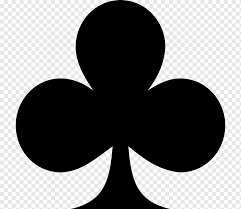
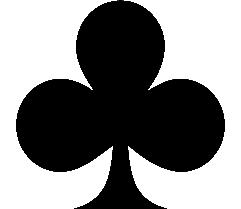
Dodany styl (poker), usunięcie tła z obrazków

Changed region(s): [[0.5228, 0.0, 1.0, 1.0], [0.0, 0.0, 0.4938, 1.0]]

diff --git a/src/poker.html b/src/poker.html
@@ -2,44 +2,45 @@
 <html lang="pl">
 <head>
     <meta charset="UTF-8">
-    <link rel="stylesheet" href="style.css">
+    <link rel="stylesheet" href="poker.css">
     <meta name="viewport" content="width=device-width">
+    <script src="https://kit.fontawesome.com/f741e76120.js" crossorigin="anonymous"></script>
     <title>Poker</title>
 </head>
 <body>
-    <div class="gra">
-        <div class="tekst">Poker</div>
-        <input type="submit" value="Zasady">            
-    </div>
-    <div class="strona">
+    <header>
+        POKER
+        <button><span class="fa-solid fa-question"></span></button>         
+    </header>
+    <div class="page">
         <div class="plansza">
-            <div class ="Armia_Szymona">
-                <div class="gracz" id="gracz1"> 
-                    <img src="ikona.png" class="ikona">
+            <div class ="rzad">
+                <div class="gracz" id="gracz3"> 
+                    <span class="fa-solid fa-circle-user" class="ikona"></span>
                     <div class="dane">
                         Krzysio
                         <br>
                         830
                     </div>
                 </div>
-                <div class="gracz" id="gracz2"> 
-                    <img src="ikona.png" class="ikona">
+                <div class="gracz" id="gracz5"> 
+                    <span class="fa-solid fa-circle-user" class="ikona"></span>
                     <div class="dane">
                         Asia
                         <br>
                         678
                     </div>
                 </div>               
-                <div class="gracz" id="gracz3"> 
-                    <img src="ikona.png" class="ikona">
+                <div class="gracz" id="gracz7"> 
+                    <span class="fa-solid fa-circle-user" class="ikona"></span>
                     <div class="dane">
                         Maciek
                         <br>
                         4567
                     </div>
                 </div> 
-                <div class="gracz" id="gracz4"> 
-                    <img src="ikona.png" class="ikona">
+                <div class="gracz" id="gracz9"> 
+                    <span class="fa-solid fa-circle-user" class="ikona"></span>
                     <div class="dane">
                         Michał
                         <br>
@@ -47,18 +48,18 @@
                     </div>
                 </div> 
             </div>
-            <div class ="Armia_Szymona">
-                <div class="gracz" id="gracz5"> 
-                    <img src="ikona.png" class="ikona">
+            <div class ="rzad" id="ze_stolem">
+                <div class="gracz" id="gracz1"> 
+                    <span class="fa-solid fa-circle-user" class="ikona"></span>
                     <div class="dane">
                         Mikołaj
                         <br>
                         1000
                     </div>
                 </div>
-                <img src="stol.png" class="stol">
-                <div class="gracz" id="gracz6"> 
-                    <img src="ikona.png" class="ikona">
+                <img src="../images/stol.png" class="stol">
+                <div class="gracz" id="gracz2"> 
+                    <span class="fa-solid fa-circle-user" class="ikona"></span>
                     <div class="dane">
                         Karol
                         <br>
@@ -66,25 +67,25 @@
                     </div>
                 </div> 
             </div>
-            <div class ="Armia_Szymona">
-                <div class="gracz" id="gracz7"> 
-                    <img src="ikona.png" class="ikona">
+            <div class ="rzad">
+                <div class="gracz" id="gracz4"> 
+                    <span class="fa-solid fa-circle-user" class="ikona"></span>
                     <div class="dane">
                         Mateusz
                         <br>
                         0
                     </div>
                 </div>
-                <div class="gracz" id="gracz8"> 
-                    <img src="ikona.png" class="ikona">
+                <div class="gracz" id="gracz6"> 
+                    <span class="fa-solid fa-circle-user" class="ikona"></span>
                     <div class="dane">
                         Weronika
                         <br>
                         600
                     </div>
                 </div>               
-                <div class="gracz" id="gracz9"> 
-                    <img src="ikona.png" class="ikona">
+                <div class="gracz" id="gracz8"> 
+                    <span class="fa-solid fa-circle-user" class="ikona"></span>
                     <div class="dane">
                         Szymon
                         <br>
@@ -92,7 +93,7 @@
                     </div>
                 </div> 
                 <div class="gracz" id="gracz10"> 
-                    <img src="ikona.png" class="ikona">
+                    <span class="fa-solid fa-circle-user" class="ikona"></span>
                     <div class="dane">
                         Piotrek
                         <br>
@@ -101,6 +102,8 @@
                 </div> 
             </div>
         </div>
+ 
+            
     </div>
     <div class ="opcje">
         <button class="przycisk_opcje">Fold</button>

diff --git a/src/brydz.html b/src/brydz.html
@@ -25,30 +25,7 @@
                             830
                         </div>
                     </div>
-                    <div class="gracz" id="gracz5"> 
-                        <span class="fa-solid fa-circle-user" class="ikona"></span>
-                        <div class="dane">
-                            Asia
-                            <br>
-                            678
-                        </div>
-                    </div>               
-                    <div class="gracz" id="gracz7"> 
-                        <span class="fa-solid fa-circle-user" class="ikona"></span>
-                        <div class="dane">
-                            Maciek
-                            <br>
-                            4567
-                        </div>
-                    </div> 
-                    <div class="gracz" id="gracz9"> 
-                        <span class="fa-solid fa-circle-user" class="ikona"></span>
-                        <div class="dane">
-                            Michał
-                            <br>
-                            2800
-                        </div>
-                    </div> 
+
                 </div>
                 <div class ="rzad" id="ze_stolem">
                     <div class="gracz" id="gracz1"> 
@@ -78,30 +55,6 @@
                             0
                         </div>
                     </div>
-                    <div class="gracz" id="gracz6"> 
-                        <span class="fa-solid fa-circle-user" class="ikona"></span>
-                        <div class="dane">
-                            Weronika
-                            <br>
-                            600
-                        </div>
-                    </div>               
-                    <div class="gracz" id="gracz8"> 
-                        <span class="fa-solid fa-circle-user" class="ikona"></span>
-                        <div class="dane">
-                            Szymon
-                            <br>
-                            2000
-                        </div>
-                    </div> 
-                    <div class="gracz" id="gracz10"> 
-                        <span class="fa-solid fa-circle-user" class="ikona"></span>
-                        <div class="dane">
-                            Piotrek
-                            <br>
-                            400
-                        </div>
-                    </div> 
                 </div>
             </div>
      

diff --git a/src/tysiac.html b/src/tysiac.html
@@ -23,30 +23,7 @@
                         830
                     </div>
                 </div>
-                <div class="gracz" id="gracz5"> 
-                    <span class="fa-solid fa-circle-user" class="ikona"></span>
-                    <div class="dane">
-                        Asia
-                        <br>
-                        678
-                    </div>
-                </div>               
-                <div class="gracz" id="gracz7"> 
-                    <span class="fa-solid fa-circle-user" class="ikona"></span>
-                    <div class="dane">
-                        Maciek
-                        <br>
-                        4567
-                    </div>
-                </div> 
-                <div class="gracz" id="gracz9"> 
-                    <span class="fa-solid fa-circle-user" class="ikona"></span>
-                    <div class="dane">
-                        Michał
-                        <br>
-                        2800
-                    </div>
-                </div> 
+
             </div>
             <div class ="rzad" id="ze_stolem">
                 <div class="gracz" id="gracz1"> 
@@ -76,30 +53,7 @@
                         0
                     </div>
                 </div>
-                <div class="gracz" id="gracz6"> 
-                    <span class="fa-solid fa-circle-user" class="ikona"></span>
-                    <div class="dane">
-                        Weronika
-                        <br>
-                        600
-                    </div>
-                </div>               
-                <div class="gracz" id="gracz8"> 
-                    <span class="fa-solid fa-circle-user" class="ikona"></span>
-                    <div class="dane">
-                        Szymon
-                        <br>
-                        2000
-                    </div>
-                </div> 
-                <div class="gracz" id="gracz10"> 
-                    <span class="fa-solid fa-circle-user" class="ikona"></span>
-                    <div class="dane">
-                        Piotrek
-                        <br>
-                        400
-                    </div>
-                </div> 
+
             </div>
         </div>
  
